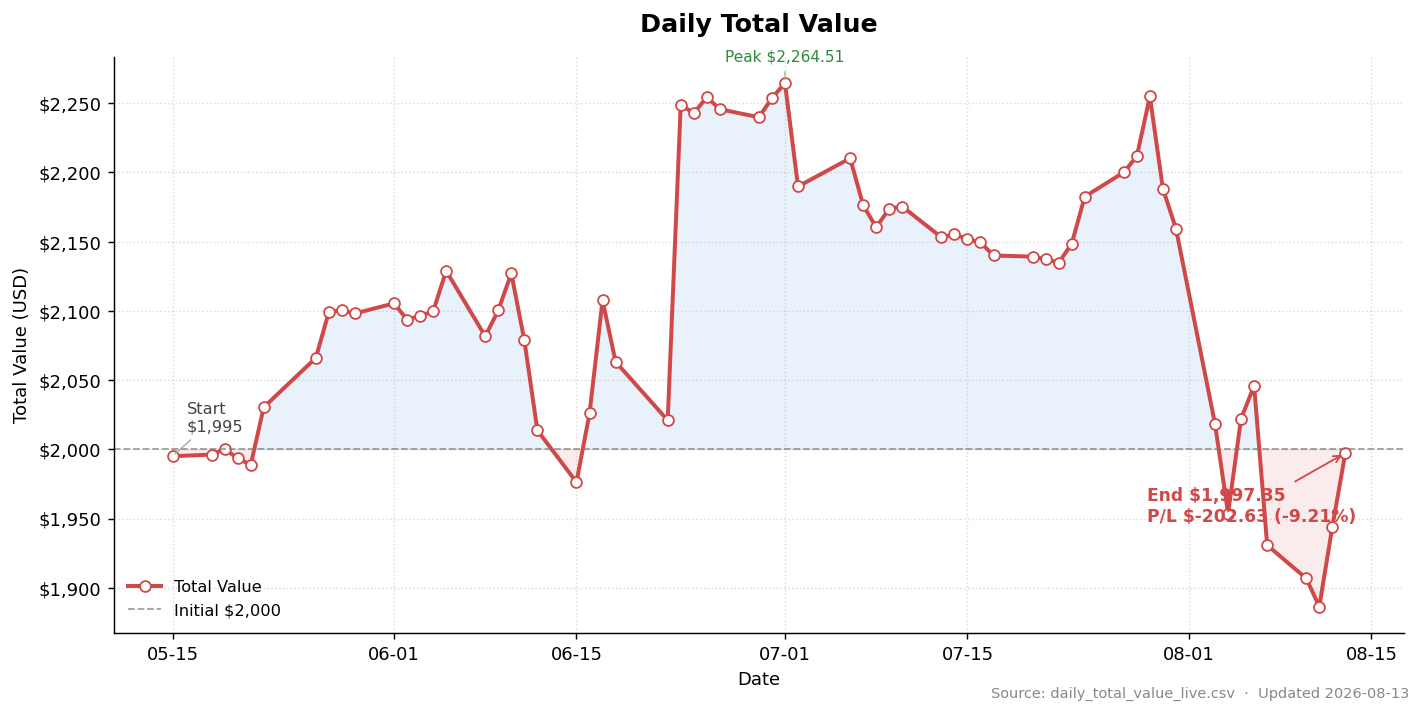
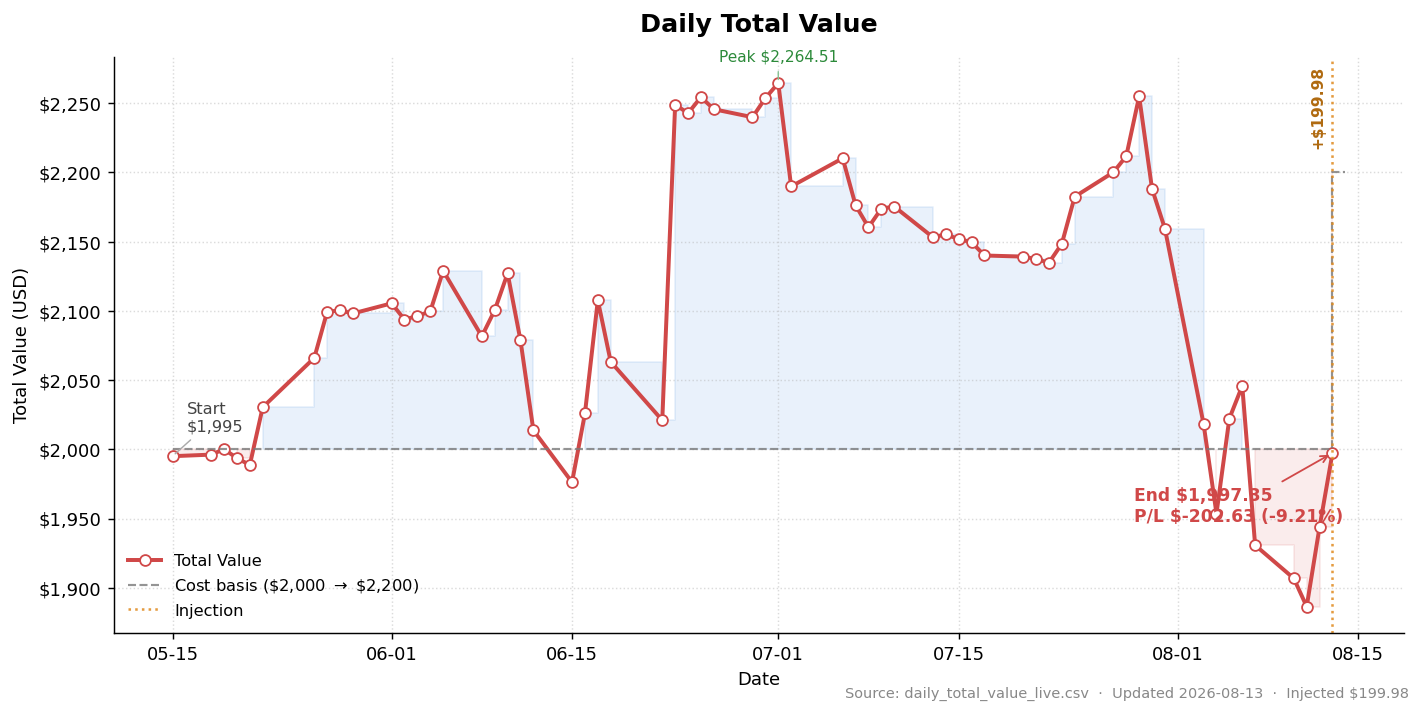
scripts: harden injection handling and make equity curve injection-aware
update_daily_total_value.py
- refuse to append when a target's initial_value disagrees with the running
  cumulative Injection (catches hand-edits before they compound)
- treat a backwards ddi_total_injected as 0 instead of emitting a negative
  injection, which would lower the cost basis and manufacture phantom profit
- degrade gracefully when the source has no ddi_total_injected column
  (paper archive predates DDI) rather than aborting the run
- backfill Injection=0.0000 for rows written before the column existed
- print INJECTION_DETECTED/INJECTION_NONE for the scheduled task's report

plot_equity_curve.py
- draw cost basis as a step line from each row's initial_value; it previously
  used rows[0] and so stayed flat at $2,000 after an injection, rendering
  injected capital as if it were profit
- mark each injection with a dotted vertical line and amount label
- escape $ in labels so matplotlib does not parse them as mathtext

Verified: the transform reproduces the committed 2026-08-13 injection row
byte-for-byte, is idempotent, and leaves data CSVs untouched.

diff --git a/scripts/update_daily_total_value.py b/scripts/update_daily_total_value.py
@@ -49,6 +49,10 @@ TRADING_DAYS = 252
 MIN_DAYS_FOR_SHARPE = 20
 RF_DAILY = (1 + RF_ANNUAL) ** (1 / TRADING_DAYS) - 1
 
+# Cash tolerance (USD) for float comparisons
+EPS = 0.005
+INJ_COL = "ddi_total_injected"
+
 
 def compute_sharpe(returns):
     n = len(returns)
@@ -87,10 +91,14 @@ def read_source(path):
         rows = list(csv.DictReader(f))
     if not rows:
         sys.exit(f"ERROR: source is empty: {path}")
-    needed = {"date", "strategy", "total_value", "drawdown_pct", "ddi_total_injected"}
+    needed = {"date", "strategy", "total_value", "drawdown_pct"}
     missing = needed - set(rows[0].keys())
     if missing:
         sys.exit(f"ERROR: source missing columns: {sorted(missing)}")
+    # The paper archive predates DDI, so a missing injection column degrades to
+    # "no injections" rather than aborting the whole run.
+    if INJ_COL not in rows[0]:
+        print(f"WARN: source has no '{INJ_COL}' column — all injections treated as 0.")
     return [r for r in rows if r["strategy"] == STRATEGY]
 
 
@@ -124,8 +132,22 @@ def main():
     prev_ddi_cum = sum(fnum(r.get("Injection", 0)) for r in dst_rows)
     all_returns = [fnum(r["daily_return"]) for r in dst_rows]
 
+    # Every row's initial_value is an independent witness of the running cumulative
+    # injection. Checking all of them (not just the last) also catches an edited
+    # interior row. Disagreement means the CSV was hand-edited — fail loudly rather
+    # than silently append on top of a corrupt cost basis.
+    running = 0.0
+    for r in dst_rows:
+        running += fnum(r.get("Injection", 0))
+        witness = fnum(r.get("initial_value")) - STARTING_CAPITAL
+        if abs(witness - running) > EPS:
+            sys.exit(f"ERROR: target inconsistent at {r['date']} — cumulative Injection="
+                     f"{running:.2f} but initial_value-{STARTING_CAPITAL:.2f}={witness:.2f}. "
+                     f"Refusing to append on a corrupt cost basis.")
+
     src_rows.sort(key=lambda r: r["date"])
     new_rows = []
+    injections = []
     for r in src_rows:
         if r["date"] in existing_dates:
             continue
@@ -133,8 +155,18 @@ def main():
         if total_value == 0:
             # skip bot startup / placeholder rows where positions weren't opened
             continue
-        curr_ddi_cum = fnum(r["ddi_total_injected"])
+        curr_ddi_cum = fnum(r.get(INJ_COL)) if INJ_COL in r else prev_ddi_cum
         daily_injection = curr_ddi_cum - prev_ddi_cum
+        if daily_injection < -EPS:
+            # A cumulative counter must never shrink. Trusting it would lower the cost
+            # basis and manufacture phantom profit, so hold the previous basis instead.
+            print(f"WARN: {r['date']} {INJ_COL} went backwards "
+                  f"({prev_ddi_cum:.2f} → {curr_ddi_cum:.2f}) — treating as 0. "
+                  f"Did the bot reset its counter?")
+            daily_injection = 0.0
+            curr_ddi_cum = prev_ddi_cum
+        elif abs(daily_injection) <= EPS:
+            daily_injection = 0.0
 
         if prev_total is None or prev_total == 0:
             daily_return = 0.0
@@ -160,6 +192,8 @@ def main():
             "SharpeRatio":   compute_sharpe(all_returns),
         }
         new_rows.append(out)
+        if daily_injection:
+            injections.append((r["date"], daily_injection, initial_value))
         prev_total = total_value
         prev_ddi_cum = curr_ddi_cum
         existing_dates.add(r["date"])
@@ -173,7 +207,11 @@ def main():
         writer = csv.DictWriter(f, fieldnames=TARGET_HEADER)
         writer.writeheader()
         for r in dst_rows:
-            writer.writerow({k: r.get(k, "") for k in TARGET_HEADER})
+            row = {k: r.get(k, "") for k in TARGET_HEADER}
+            # Rows written before the Injection column existed default to 0.
+            if row["Injection"] == "":
+                row["Injection"] = "0.0000"
+            writer.writerow(row)
         for r in new_rows:
             writer.writerow(r)
 
@@ -182,6 +220,14 @@ def main():
         sharpe_str = r["SharpeRatio"] if r["SharpeRatio"] else "—"
         inj_str = f"+${r['Injection']}" if float(r["Injection"]) > 0 else "—"
         print(f"  {r['date']}  total={r['total_value']}  init={r['initial_value']}  inj={inj_str}  P/L={r['P/L']}  Sharpe={sharpe_str}")
+
+    # Machine-readable summary the scheduled task greps for its final report.
+    if injections:
+        print(f"INJECTION_DETECTED {len(injections)}:")
+        for date, amt, iv in injections:
+            print(f"  {date}  +${amt:,.2f}  → cost basis now ${iv:,.2f}")
+    else:
+        print("INJECTION_NONE")
     return 0
 
 

diff --git a/scripts/plot_equity_curve.py b/scripts/plot_equity_curve.py
@@ -28,6 +28,7 @@ def load(path):
                 "date": datetime.strptime(r["date"], "%Y-%m-%d"),
                 "total_value": float(r["total_value"]),
                 "initial_value": float(r["initial_value"]),
+                "injection": float(r.get("Injection") or 0.0),
                 "pl": float(r["P/L"]),
                 "pl_pct": float(r["P/L_percent"]),
             })
@@ -37,7 +38,12 @@ def load(path):
 def plot(rows, out_path, src_name):
     dates = [r["date"] for r in rows]
     values = [r["total_value"] for r in rows]
-    initial = rows[0]["initial_value"]
+    # Cost basis is a STEP function: it jumps on每次注资, so it must be tracked
+    # per-row. Using rows[0] would keep the baseline at the pre-injection capital
+    # and make the post-injection curve look like profit it never earned.
+    basis = [r["initial_value"] for r in rows]
+    initial = basis[-1]
+    injections = [r for r in rows if r["injection"]]
     final = values[-1]
     final_pl = rows[-1]["pl"]
     final_pl_pct = rows[-1]["pl_pct"] * 100
@@ -49,16 +55,42 @@ def plot(rows, out_path, src_name):
             markersize=6, markerfacecolor="white",
             markeredgecolor=line_color, label="Total Value")
 
-    ax.axhline(initial, color="#7a7a7a", linestyle="--", linewidth=1,
-               alpha=0.7, label=f"Initial ${initial:,.0f}")
+    if injections:
+        # Escape $ — an even number of them makes matplotlib parse the label as mathtext.
+        basis_label = (fr"Cost basis (\${basis[0]:,.0f} $\rightarrow$ \${initial:,.0f})")
+        # where="post" holds each value until the NEXT x, so the final step would be
+        # invisible when the injection lands on the last row. Extend by one day.
+        ax.step(dates + [dates[-1] + timedelta(days=1)], basis + [basis[-1]],
+                where="post", color="#7a7a7a", linestyle="--",
+                linewidth=1.2, alpha=0.8, label=basis_label)
+    else:
+        ax.axhline(initial, color="#7a7a7a", linestyle="--", linewidth=1,
+                   alpha=0.7, label=f"Initial ${initial:,.0f}")
 
     if len(rows) > 1:
-        ax.fill_between(dates, values, initial,
-                        where=[v >= initial for v in values],
-                        color="#2f7ed8", alpha=0.10, interpolate=True)
-        ax.fill_between(dates, values, initial,
-                        where=[v < initial for v in values],
-                        color="#d04848", alpha=0.10, interpolate=True)
+        # A stepped basis needs a stepped fill; a flat one keeps the smoother
+        # interpolated fill it always had.
+        fill_kw = dict(step="post") if injections else dict(interpolate=True)
+        ax.fill_between(dates, values, basis,
+                        where=[v >= b for v, b in zip(values, basis)],
+                        color="#2f7ed8", alpha=0.10, **fill_kw)
+        ax.fill_between(dates, values, basis,
+                        where=[v < b for v, b in zip(values, basis)],
+                        color="#d04848", alpha=0.10, **fill_kw)
+
+    # Mark每笔注资 so a jump in total value is never mistaken for a gain.
+    for i, r in enumerate(injections):
+        ax.axvline(r["date"], color="#e08a1e", linestyle=":", linewidth=1.4, alpha=0.85,
+                   label="Injection" if i == 0 else None)
+        # Pin the label to the top of the axes (blended transform) and hang it to the
+        # LEFT of the line, so an injection on the final day isn't clipped off-canvas.
+        ax.annotate(fr"+\${r['injection']:,.2f}",
+                    # blended transform skips date unit conversion → convert manually
+                    xy=(mdates.date2num(r["date"]), 0.985),
+                    xycoords=ax.get_xaxis_transform(),
+                    xytext=(-4, 0), textcoords="offset points",
+                    fontsize=8.5, color="#b06a10", fontweight="bold",
+                    ha="right", va="top", rotation=90)
 
     ax.annotate(f"Start\n${values[0]:,.0f}", xy=(dates[0], values[0]),
                 xytext=(8, 14), textcoords="offset points",
@@ -104,8 +136,11 @@ def plot(rows, out_path, src_name):
     ax.yaxis.set_major_formatter(plt.FuncFormatter(lambda x, _: f"${x:,.0f}"))
     ax.legend(loc="lower left", frameon=False, fontsize=9)
 
+    inj_note = ""
+    if injections:
+        inj_note = fr"  ·  Injected \${sum(r['injection'] for r in injections):,.2f}"
     fig.text(0.99, 0.01,
-             f"Source: {src_name}  ·  Updated {rows[-1]['date']:%Y-%m-%d}",
+             f"Source: {src_name}  ·  Updated {rows[-1]['date']:%Y-%m-%d}{inj_note}",
              ha="right", va="bottom", fontsize=8, color="#888")
 
     fig.tight_layout()
